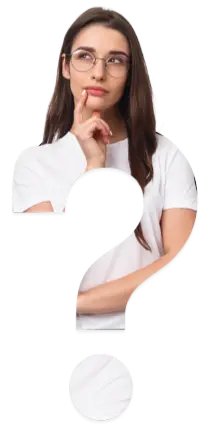
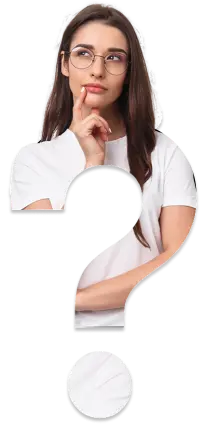
main

diff --git a/src/Home/BannerPage.css b/src/Home/BannerPage.css
@@ -122,7 +122,6 @@
 }
 
 .custom-player {
-    box-shadow: 0 4px 10px rgba(0, 0, 0, 0.1);
     overflow: hidden;
     height: auto;
     display: block;
@@ -704,7 +703,7 @@
 
 
 /* For devices larger than 1500px (Extra-Large Screens) */
-@media screen and (min-width: 1500px) {
+@media screen and (min-width: 1500px) and (max-width: 1800px) {
     .coverpage-container {
         display: flex;
     justify-content: center;
@@ -741,34 +740,133 @@
     }
 
     .student-count {
-        font-size: 5rem;
+        font-size: 6rem;
         letter-spacing: 6px;
         padding-left: 5px;
         padding-right: 5px;
-        margin-bottom: 0px;
-        padding-bottom: 0px;
+     
     }
 
     .students-placed {
-        font-size: 1.7rem;
+        font-size: 1.9rem;
         font-weight: 600;
         text-align: end;
         margin-top: 0px;
     }
 
     .counting {
-        font-size: 1.5rem;
+        font-size: 1.9rem;
         padding-left: 10px;
         padding-right: 10px;
     }
 
     .placement-card {
-        min-width: 250px;
+        min-width: 300px;
         padding-top: 0px;
         padding-bottom: 0px;
     }
     .plus-sign{
         font-size: 4rem;
+    }
+
+    .stats-studentplaced-container {
+        justify-content:center;
+        margin-top: 100px;
+        margin-bottom: 40px;
+        align-items: center;
+    }
+
+    .home-cards-container {
+        grid-template-columns: repeat(auto-fit, minmax(250px, 1fr));
+    }
+
+    .image-container {
+        width: 25%;
+        margin-top: 20px;
+        padding: 0;
+        display: block;
+        display: flex;
+        align-self: flex-end;
+    }
+    
+   
+    .banner-girl{
+        width: 100%;
+        display: block;
+    }
+    .custom-player{
+        width: 50%;
+        height: auto;
+        display: block;
+    }
+
+}
+
+
+@media screen and (min-width: 1800px) {
+    .coverpage-container {
+        display: flex;
+    justify-content: center;
+    align-items: center;
+    width: 100%;
+    max-height: 100vh;
+    padding-top: 40px;
+    gap: 40px;
+    
+    }
+    .home-text-container{
+        justify-content: end;
+        align-items: center;
+    }
+
+    .home-cover-text-container {
+        width: 66%;
+        justify-content: space-between;
+        height: 100%;
+        display: flex;
+        flex-direction: column;
+        align-items: end;
+
+    }
+
+    .home-title {
+        font-size: 5.4rem;
+    }
+
+    .tag-line {
+        font-size: 2.5rem;
+        text-align: end;
+        letter-spacing: 0.6px;
+    }
+
+    .student-count {
+        font-size: 7rem;
+        letter-spacing: 6px;
+        padding-left: 5px;
+        padding-right: 5px;
+     
+    }
+
+    .students-placed {
+        font-size: 1.9rem;
+        font-weight: 600;
+        text-align: end;
+        margin-top: 0px;
+    }
+
+    .counting {
+        font-size: 1.9rem;
+        padding-left: 10px;
+        padding-right: 10px;
+    }
+
+    .placement-card {
+        min-width: 300px;
+        padding-top: 0px;
+        padding-bottom: 0px;
+    }
+    .plus-sign{
+        font-size: 5rem;
     }
 
     .stats-studentplaced-container {

diff --git a/src/Home/InfoBanner.css b/src/Home/InfoBanner.css
@@ -4,9 +4,10 @@
     align-items: center;
     background-image: url('../images/info-bg.png');
     color: #fff; 
-    padding: 20px;
+    padding-top: 90px;
+    padding-bottom: 90px;
     text-align: center;
-    max-height: 25vh;
+    max-height: 40vh;
     background-size: cover;
   }
   
@@ -35,14 +36,15 @@
 
   @media screen and (min-width:576px) and (max-width:976px){
     .info-heading{
-      font-size: 20px;
+      font-size: 1.8rem;
       margin-bottom: 5px;
     }
     .info-subtext{
-      font-size: 16px;
+      font-size: 1.2rem;
     }
     .info-banner-container{
-      padding: 30px;
+      padding-top: 50px;
+      padding-bottom: 50px;
     }
   }
 
@@ -60,7 +62,8 @@
 
     }
     .info-banner-container{
-      padding: 30px;
+      padding-top: 90px;
+      padding-bottom: 90px;
     }
     .info-banner-container{
       max-height: 15vh;
@@ -72,21 +75,24 @@
 
   @media screen and (min-width:1500px){
     .info-banner-container{
-       padding: auto;
+      padding-top: 90px;
+      padding-bottom: 90px;
+       width: 100%;
     }
     .info-heading{
-      font-size: 4rem;
+      font-size: 3.5rem;
       margin-bottom: 5px;
     }
     .info-subtext{
-      font-size: 3rem;
+      font-size: 2.4rem;
     }
   }
 
 
   @media screen and (min-width:1200px) and (max-width:1500px){
     .info-banner-container{
-       padding: auto;
+      padding-top: 90px;
+      padding-bottom: 90px;
     }
     .info-heading{
       font-size: 2rem;
@@ -100,7 +106,8 @@
   
   @media screen and (min-width:976px) and (max-width:1200px){
     .info-banner-container{
-       padding: 20px;
+      padding-top: 60px;
+      padding-bottom: 60px;
     }
     .info-heading{
       font-size: 2rem;

diff --git a/src/Home/RotatingCarousel.css b/src/Home/RotatingCarousel.css
@@ -114,7 +114,7 @@
 }
 
 .name {
-  font-weight: bold;
+  font-weight: 400;
   font-size: 13px;
   color: #ffffff;
 }
@@ -247,8 +247,8 @@
 
   .text-content p {
     font-size: 4rem;
-    letter-spacing: 4px;
-    font-weight: 400;
+    letter-spacing: 8px;
+    font-weight: 600;
     margin-bottom: 10px;
   }
 
@@ -269,7 +269,6 @@
     max-width: 650px;
     margin: 0px;
     display: block;
-
 
   }
  
@@ -303,7 +302,7 @@
     font-size: 1rem;
   }
   .center-text{
-    font-size: 30px;
+    font-size: 40px;
     color: #ffffff;
     margin-top: 20px;
   }
@@ -881,10 +880,20 @@
 
 
 
-@media (min-width: 1500px) {
+@media (min-width: 1800px) {
   .spiral-bg {
-    left: 6%;
-    width: 900px;
+    left: 9%;
+    width: 760px;
+    top: 11%;
+  }
+}
+
+
+@media (min-width: 1500px) and (max-width: 1800px) {
+  .spiral-bg {
+    left: 2%;
+    width: 700px;
+    top: 11%;
   }
 }
 

diff --git a/src/Home/TestimonialsV.css b/src/Home/TestimonialsV.css
@@ -84,6 +84,8 @@
   box-shadow: 0px 4px 4px 0px #00000040;
   max-width: 550px;
   margin: 50px auto;
+  border: 10px solid #FFFFFF;
+
 }
 
 .circle-img.top-left {
@@ -134,7 +136,7 @@
 .card-content-wrapper {
   display: flex;
   position: relative;
-  padding: 10px;
+  padding: 30px;
   z-index: 2;
 
 }
@@ -146,6 +148,8 @@
   border: 2px solid #FFFFFF;
   box-shadow: 0 2px 8px rgba(0, 0, 0, 0.1);
   margin-right: 20px;
+  border: 10px solid #FFFFFF;
+
 }
 
 .card-content {

diff --git a/src/Home/RotatingCarousel.js b/src/Home/RotatingCarousel.js
@@ -124,7 +124,7 @@ const RotatingCarousel = () => {
             <p>
               After <span className="highlight">3281+</span> <br /> Successful Placed <br /> Students
             </p>
-            <h1>WHO IS <br /> NEXT.....?</h1>
+            <h1>WHO IS <br /> NEXT......?</h1>
           </div>
           <img src={questionImage} alt="Question Mark" className="question-mark" max-height={120} width={250} />
           </div>

diff --git a/src/Home/TeamPage.css b/src/Home/TeamPage.css
@@ -298,7 +298,6 @@ letter-spacing: 1px;
   .team-card {
     width: 250px; /* Larger card width */
     min-height: 350px; /* Adjusted height */
-    padding: 20px; /* More spacing */
   }
 
   .profile-pic {
